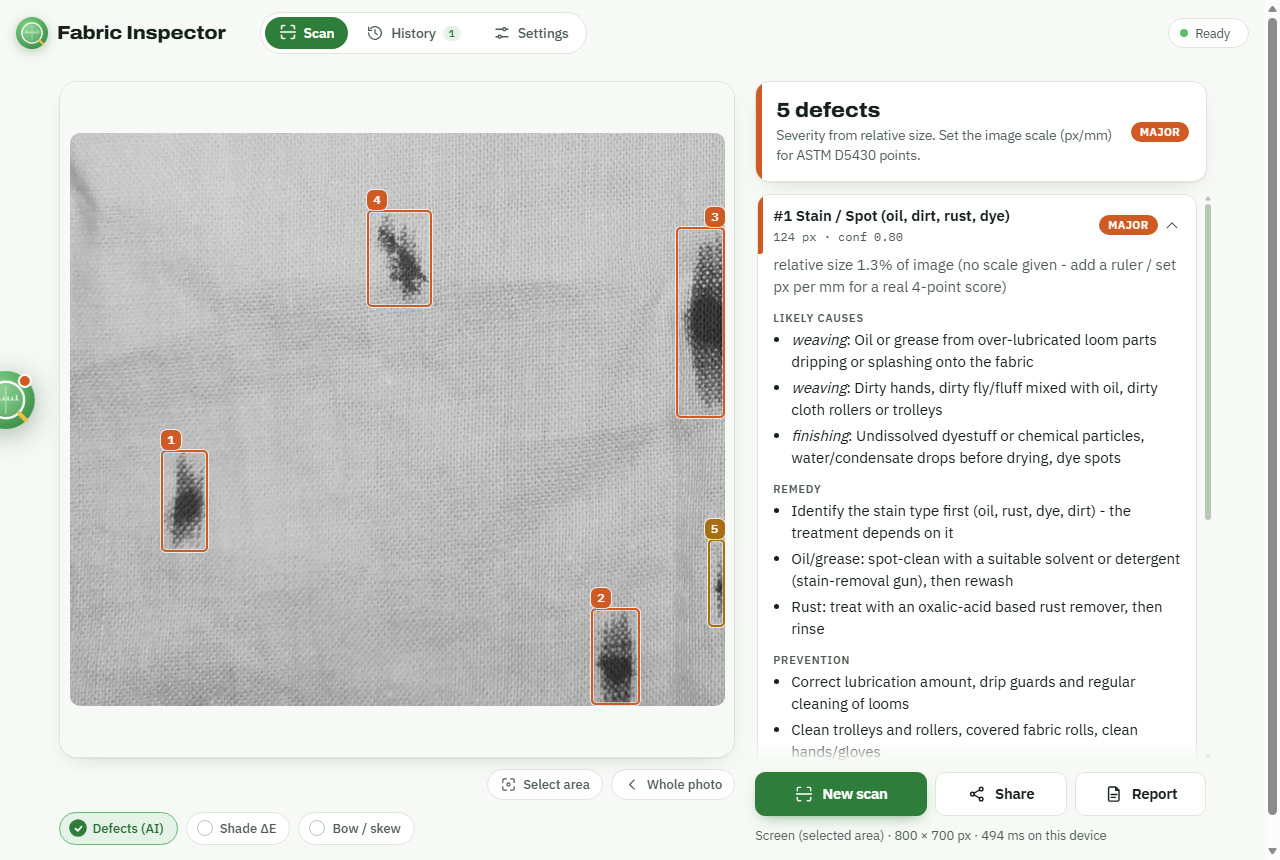
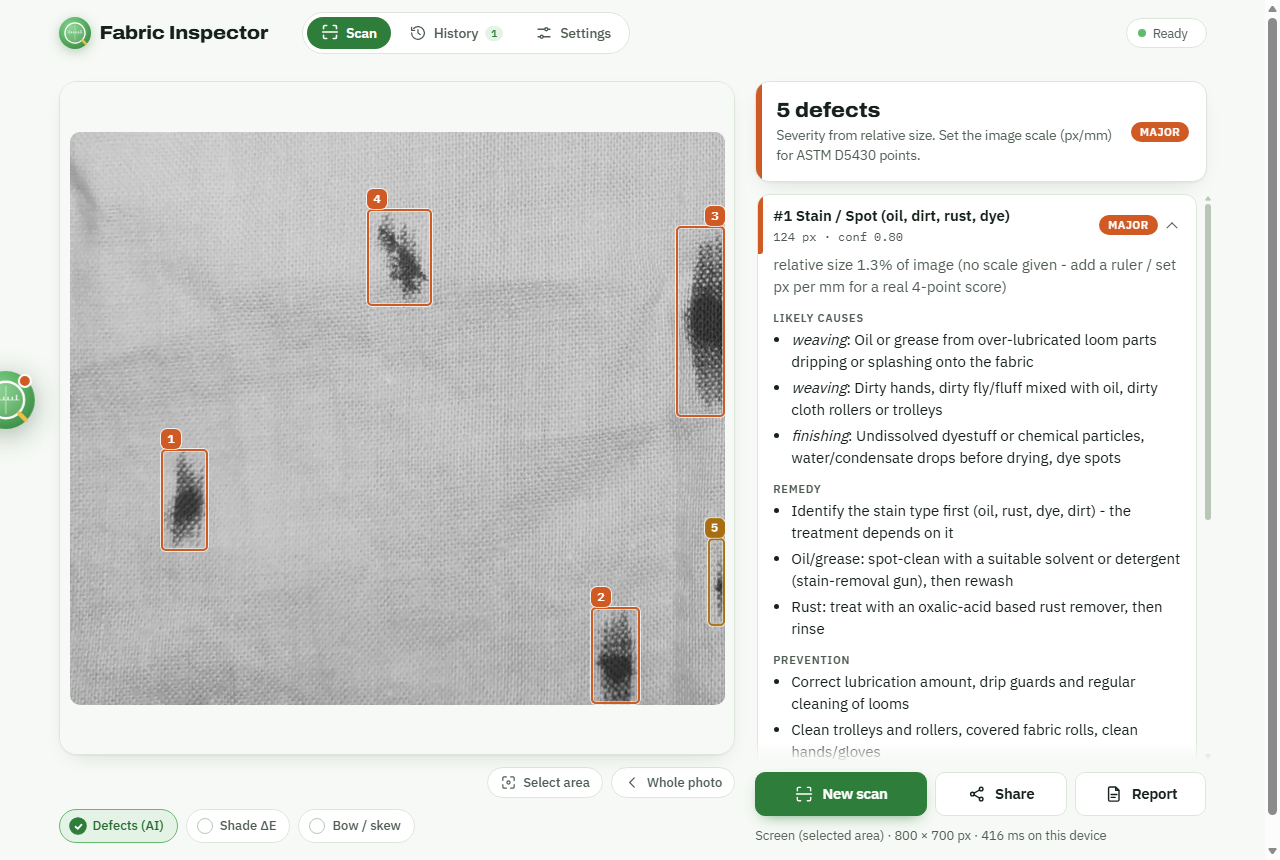
Align header with content; main box and right column end on one line
On wide screens the header uses the same 1180 px column as the content, and on the
start screen the main box and the last card share one bottom edge with the check
chips below both.

diff --git a/web_static/sw.js b/web_static/sw.js
@@ -1,5 +1,5 @@
-// Offline cache (generated by build_static.py) - version 6456008cfe
-const CACHE = "fdi-6456008cfe";
+// Offline cache (generated by build_static.py) - version 472094e66c
+const CACHE = "fdi-472094e66c";
 const FILES = ["css/app.css", "examples/hole_example.jpg", "examples/skew_example.jpg", "examples/stain_example.jpg", "icons/icon-192.png", "icons/icon-512.png", "index.html", "iphone.html", "js/app.js", "js/bubble.js", "js/camera.js", "js/detector.js", "js/imgutil.js", "js/kb.js", "js/shade.js", "js/skew.js", "js/store.js", "js/verdict.js", "kb.json", "manifest.webmanifest", "model/best.onnx", "ort/ort-wasm-simd-threaded.mjs", "ort/ort-wasm-simd-threaded.wasm", "ort/ort.wasm.min.mjs"];
 const clean = (r) => (r && r.redirected ? r.blob().then((b) => new Response(b, { status: 200, headers: r.headers })) : r);
 // one file at a time with retries: on a weak mobile connection a single failed download must not undo the rest

diff --git a/web_static/css/app.css b/web_static/css/app.css
@@ -417,3 +417,10 @@ body.pipbody[data-view="bubble"] { display: grid; place-items: center; min-heigh
   #sidecards .tips b { font: 700 1.08rem var(--f-display); font-stretch: 106%; }
   #sidecards .tips ul { text-align: left; max-width: 40ch; }
 }
+@media (min-width: 900px) {
+  /* the header lines up with the content below (same 1180 px column) */
+  .top { padding-left: max(16px, calc((100% - 1180px) / 2 + 16px)); padding-right: max(16px, calc((100% - 1180px) / 2 + 16px)); }
+  /* start screen: the main box and the last card end on one line; the check chips sit below */
+  #scr-scan .checks { min-height: 36px; flex-wrap: nowrap; }
+  #scr-scan[data-state=empty] #sidecards { height: calc(var(--colh) - 46px); }
+}

diff --git a/tests/test_bubble.py b/tests/test_bubble.py
@@ -71,8 +71,9 @@ try:
         except Exception: pass
     js("fabricApp.ready")
     time.sleep(0.8); shot("start_desktop.png")
-    st = js("(() => { const a = document.querySelector('.stagecol').getBoundingClientRect(), b = document.getElementById('sidecards').getBoundingClientRect(); return [a.top, a.bottom, b.top, b.bottom]; })()")
-    check(abs(st[0] - st[2]) < 2 and abs(st[1] - st[3]) < 2, f"start screen: both columns line up top and bottom {st}")
+    st = js("(() => { const a = document.querySelector('.stage').getBoundingClientRect(), b = document.getElementById('sidecards').getBoundingClientRect(), h = document.querySelector('.brand').getBoundingClientRect(); return [a.top, a.bottom, b.top, b.bottom, a.left, h.left]; })()")
+    check(abs(st[0] - st[2]) < 2 and abs(st[1] - st[3]) < 2, f"start screen: main box and right column line up top and bottom {st[:4]}")
+    check(abs(st[4] - st[5]) < 2, f"header lines up with the content (box left {st[4]:.0f}, logo left {st[5]:.0f})")
     # 1. on by default: a small bubble on the page edge; the switch is in Settings
     check(js("!!document.querySelector('.fbub') && !document.querySelector('.fbub').hidden"), "bubble on the page by default")
     check(js("document.getElementById('bubbleOn').checked"), "Settings switch is on")
